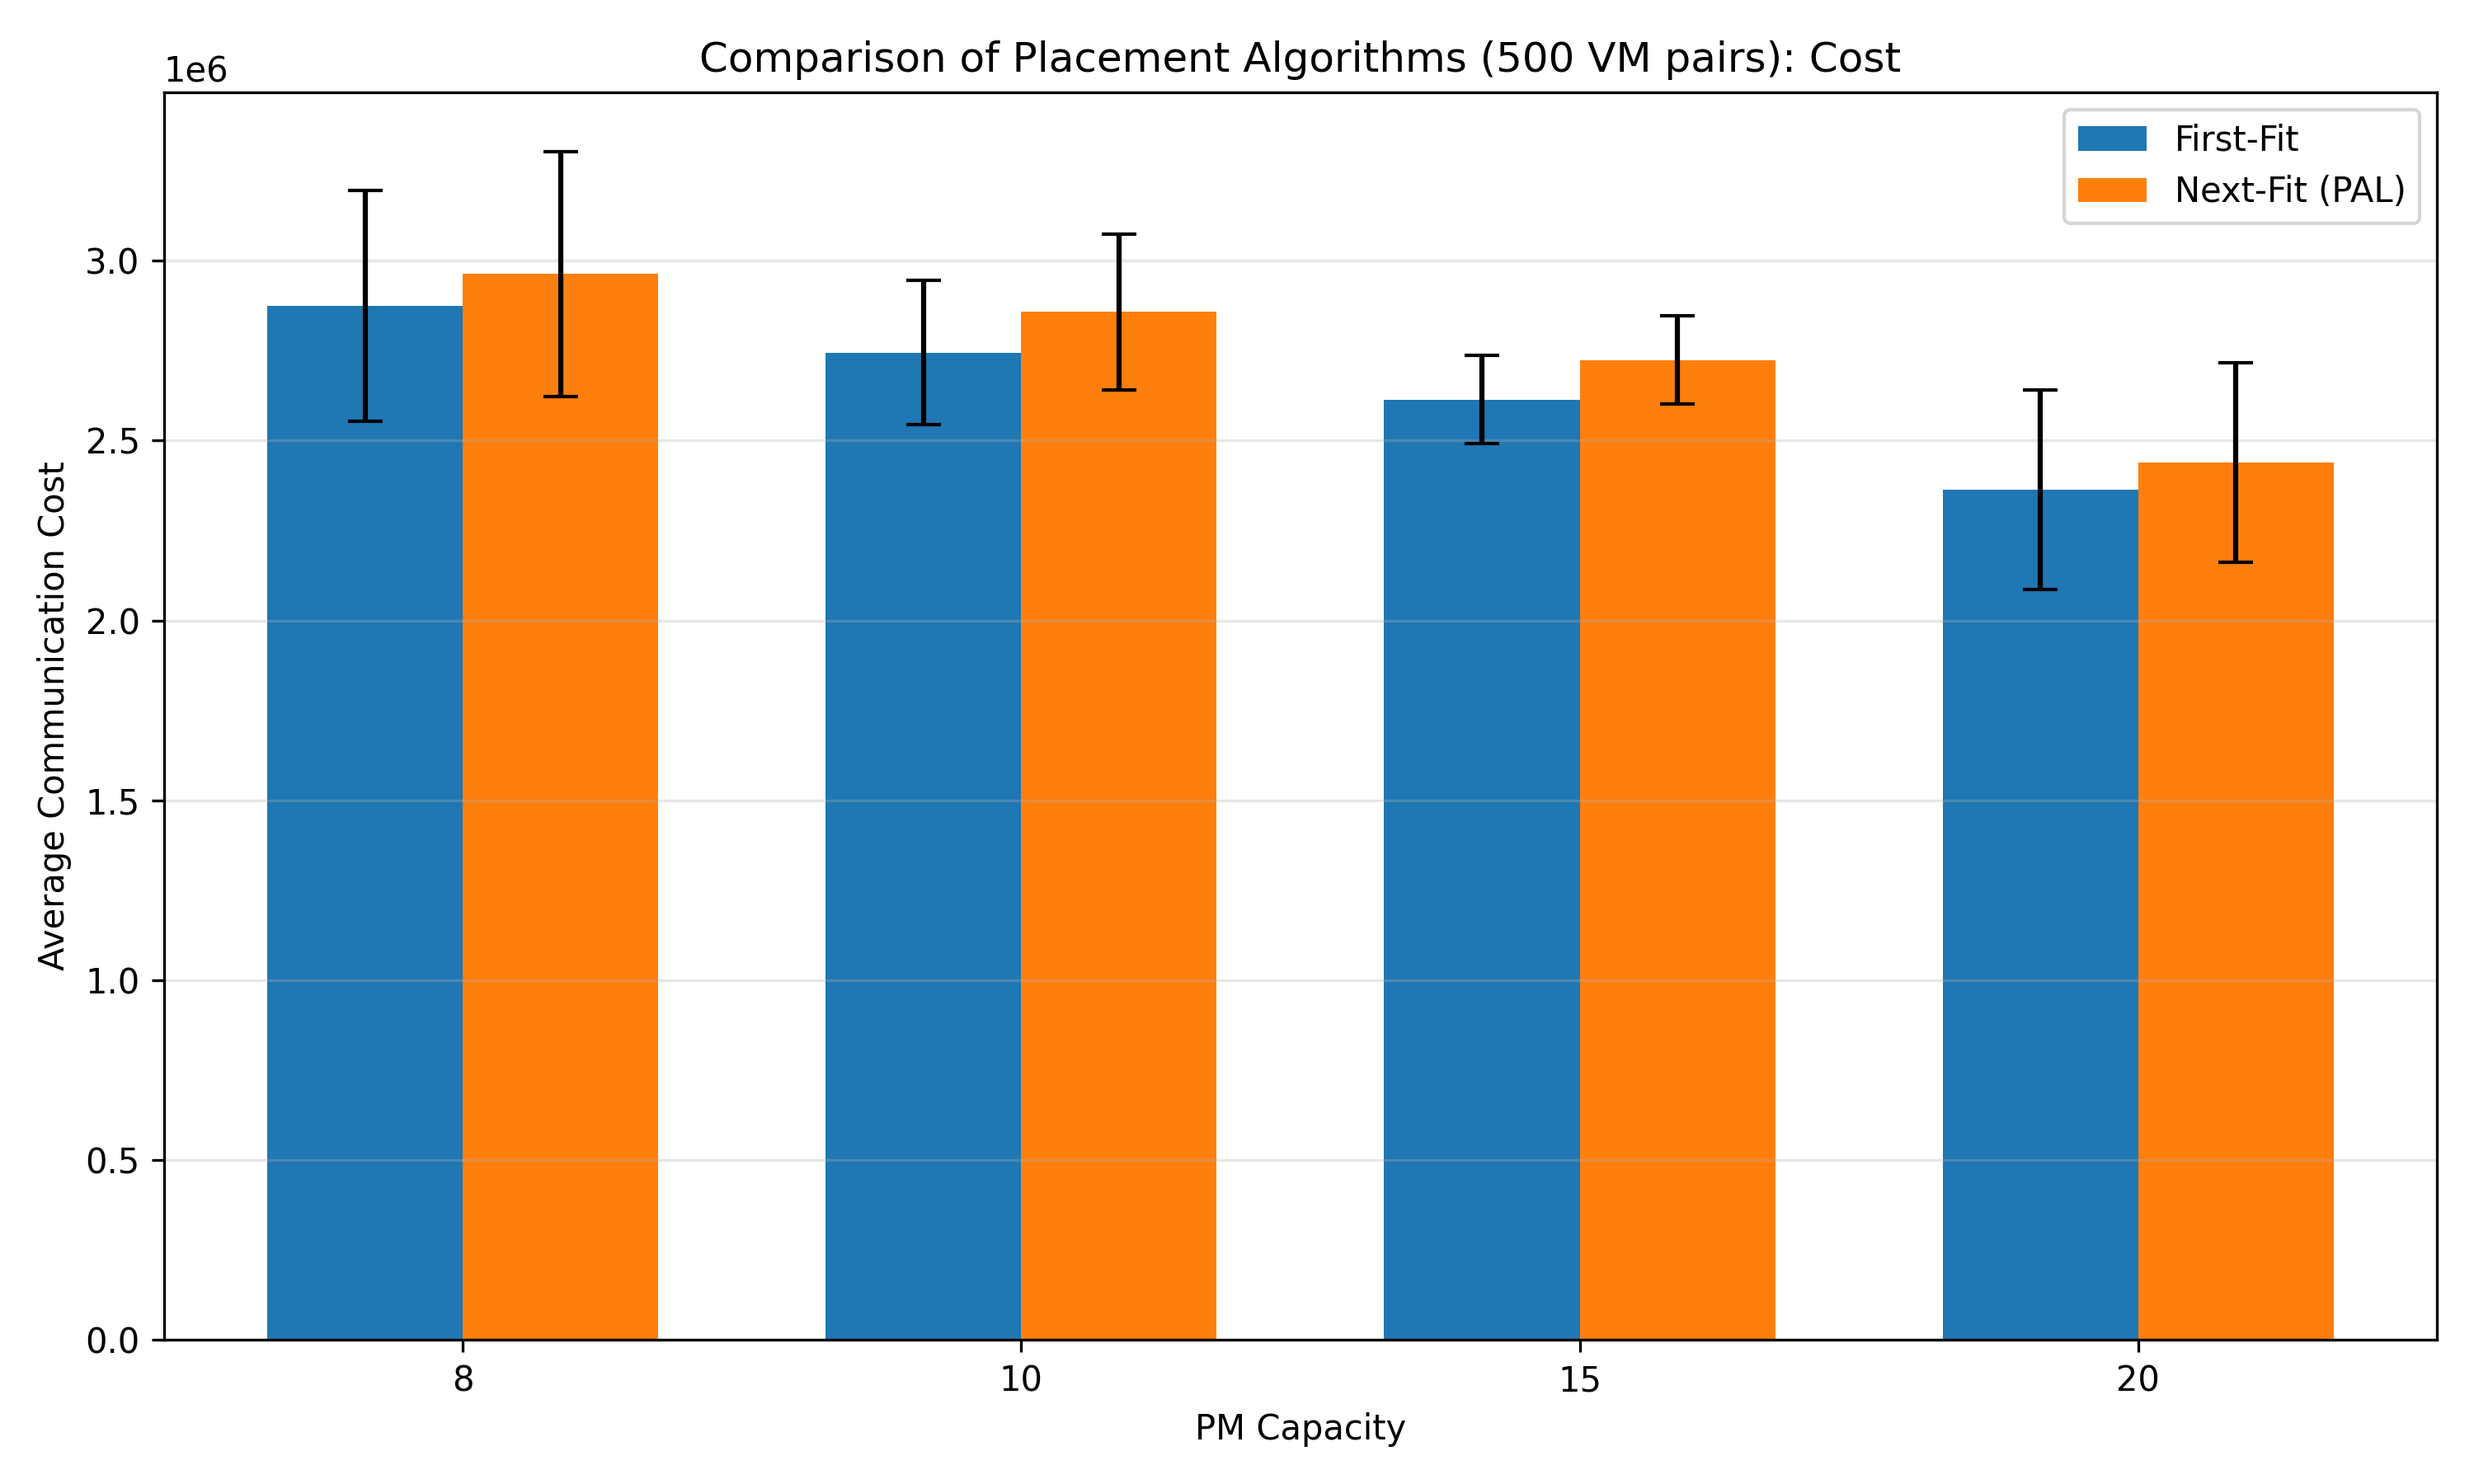
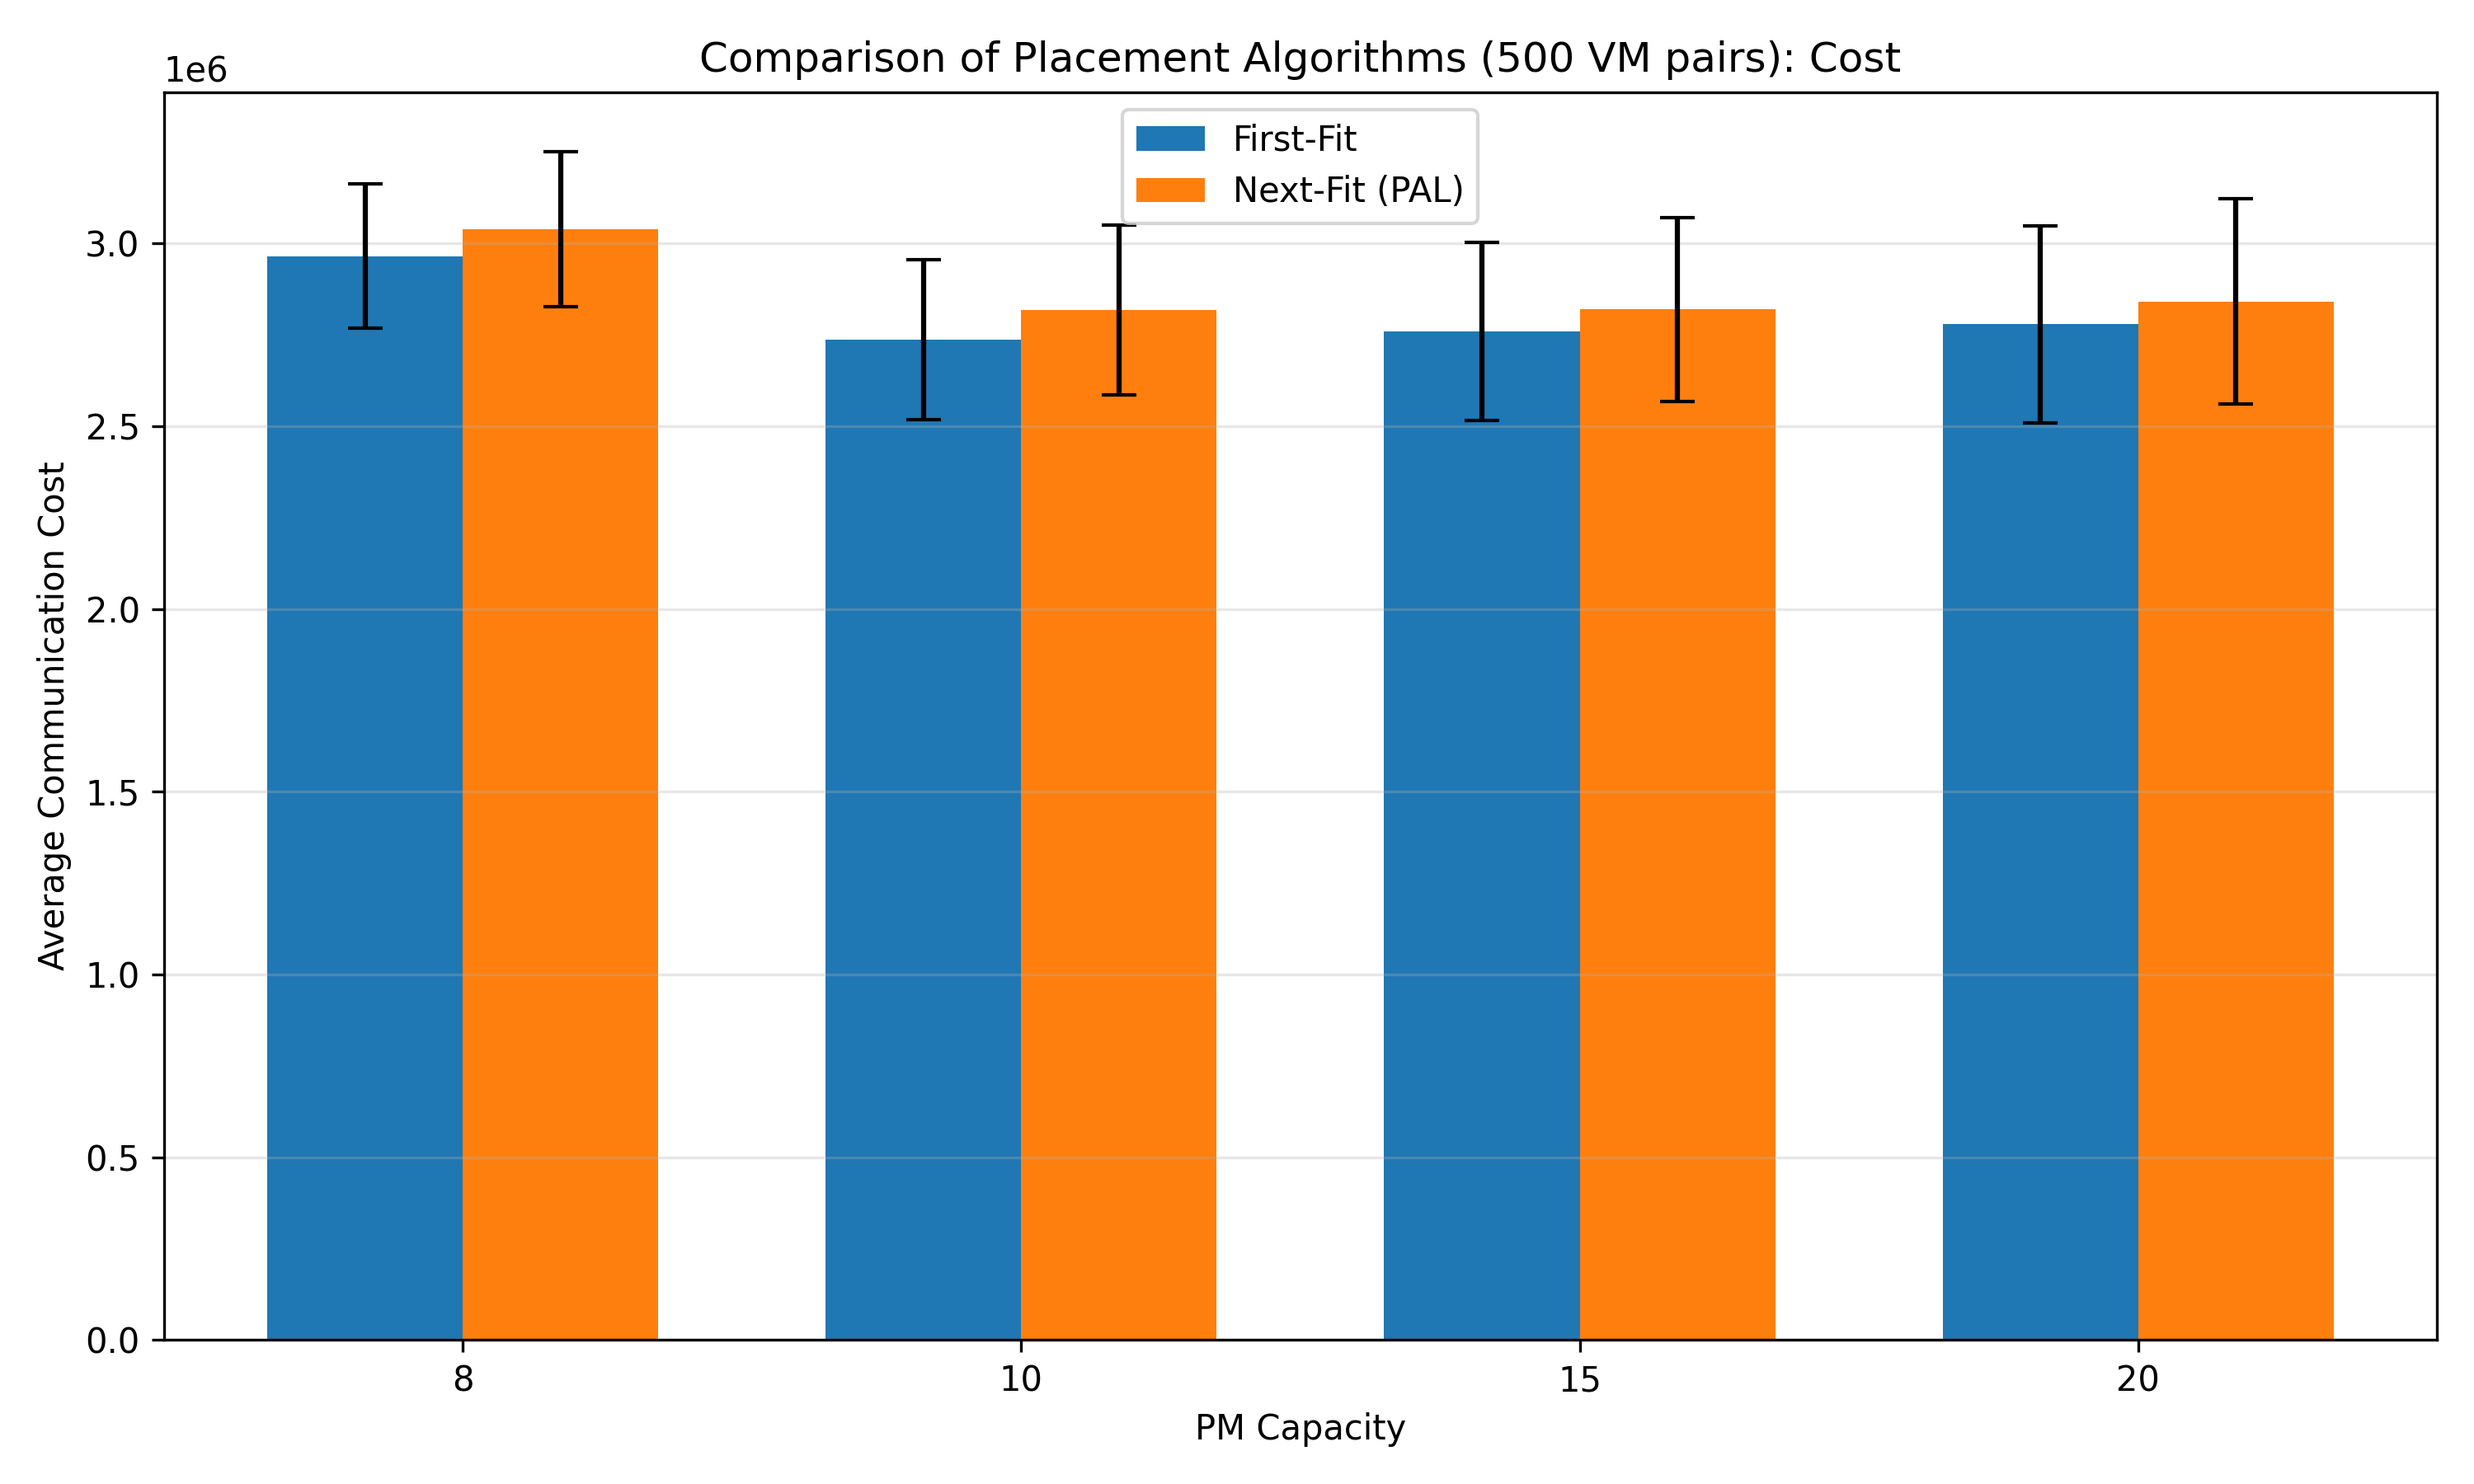
modiified greedy migration

diff --git a/src/fat_tree.py b/src/fat_tree.py
@@ -517,7 +517,7 @@ class FatTree:
 
         return total_cost, used_pm_count
    
-   '''
+    '''
    def create_pairs_sized_pal_place(self, lower_bound, upper_bound):
     # Build PM slots; I and E will reference the same dict objects
     pm_slots = []
@@ -593,7 +593,7 @@ class FatTree:
     total_cost = sum(self.calc_pair_cost(p) for p in pairs)
     print(f"Total cost of configuration for sized PAL placement: {total_cost}")
     return total_cost, len(used_pms)
-   '''
+        '''
     def make_t(self):
         #t will be a 2d array
         #first dimension size is number of VMs (vm pairs *2)
@@ -753,12 +753,14 @@ class FatTree:
         # Greedy selection rounds
         while remaining:
             pick_v = pick_j = None
-            pick_cost = pick_util = None
+            pick_score = None
             for v in remaining:
                 j_star, c_star = best_feasible(v)
-                util = old_comm[v] - c_star
-                if (pick_util is None) or (util > pick_util):
-                    pick_v, pick_j, pick_cost, pick_util = v, j_star, c_star, util
+                util = old_comm[v] - c_star                 # improvement
+                denom = d[v] if d[v] > 0 else 1
+                score = util / denom                        # utility per unit VM size
+                if (pick_score is None) or (score > pick_score):
+                    pick_v, pick_j, pick_score = v, j_star, score
 
             assignment_idx[pick_v] = pick_j
             cap[pick_j] -= d[pick_v]
